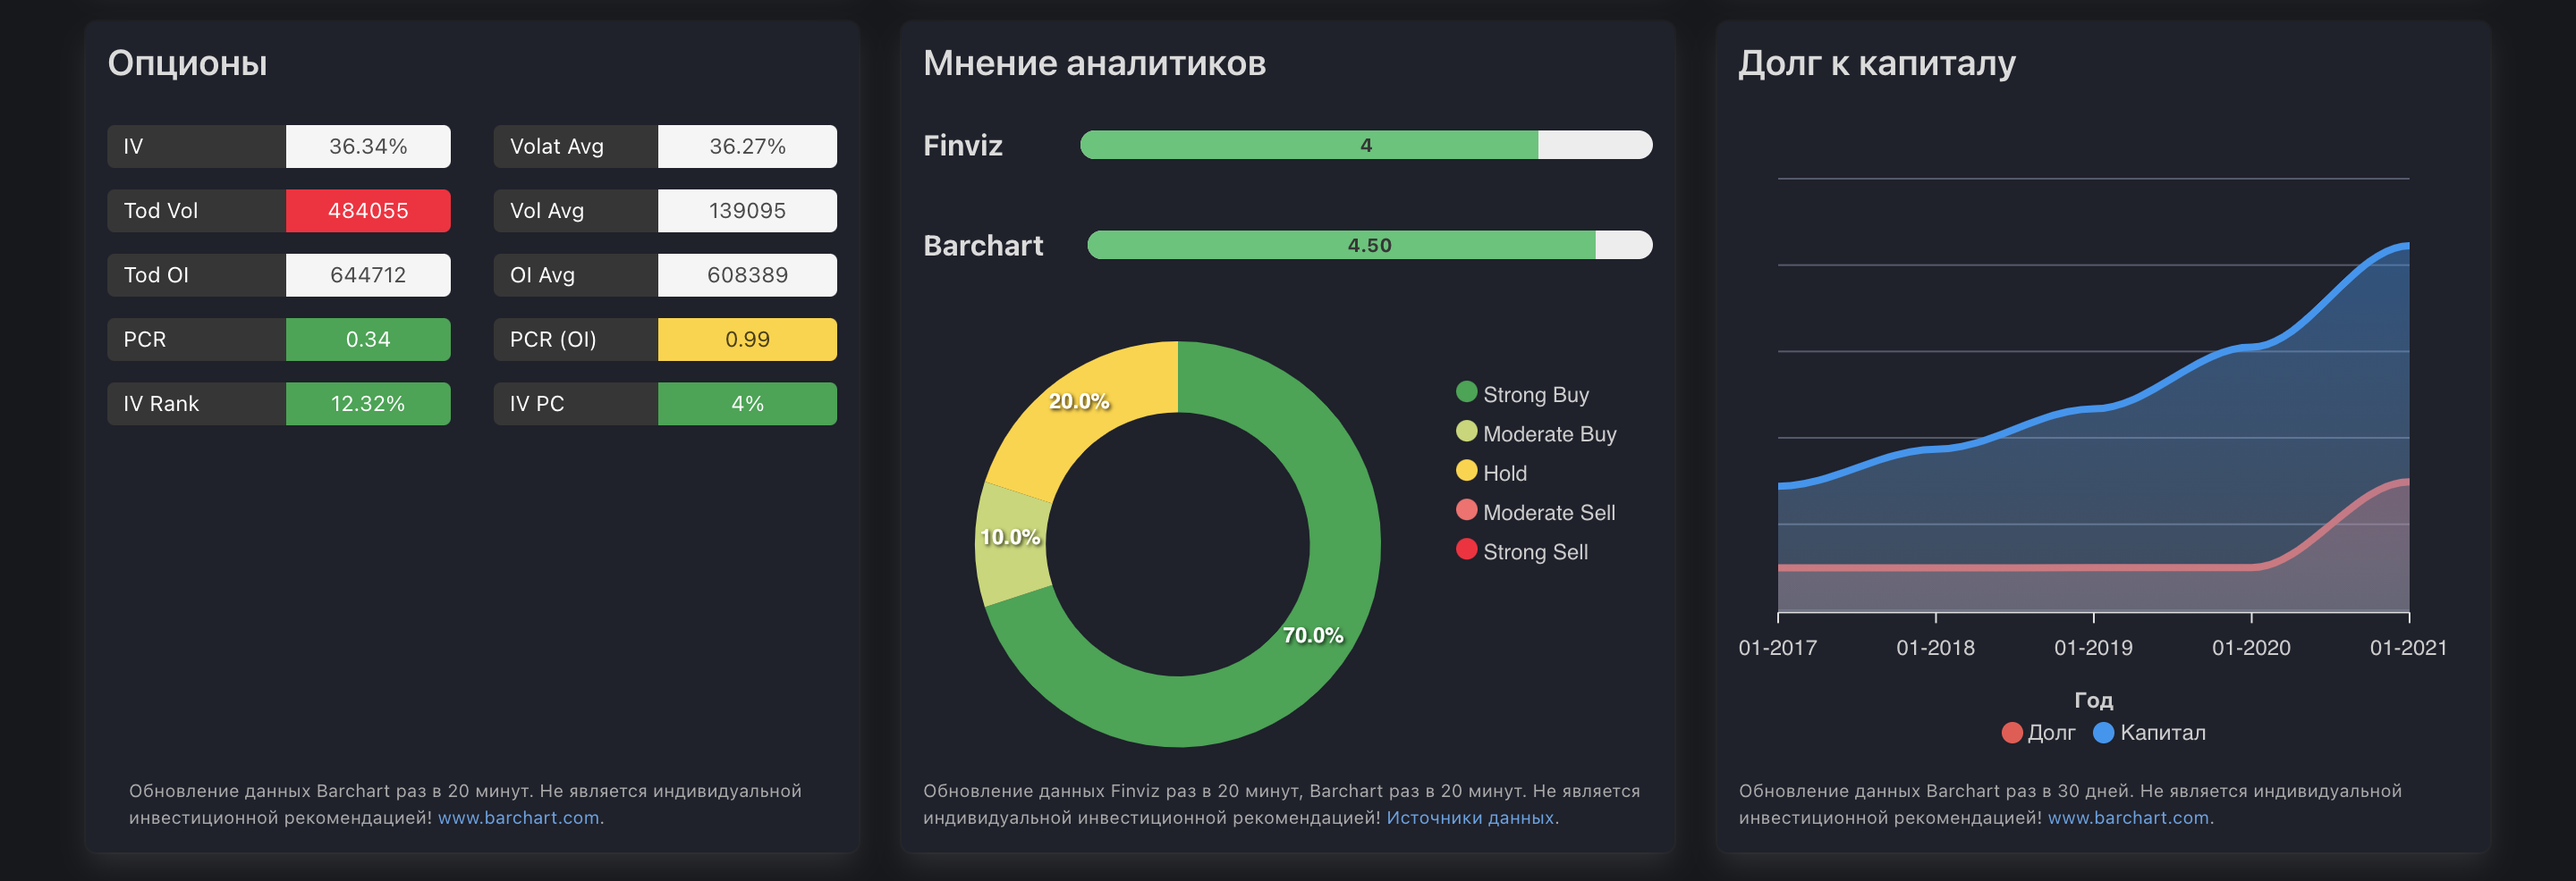
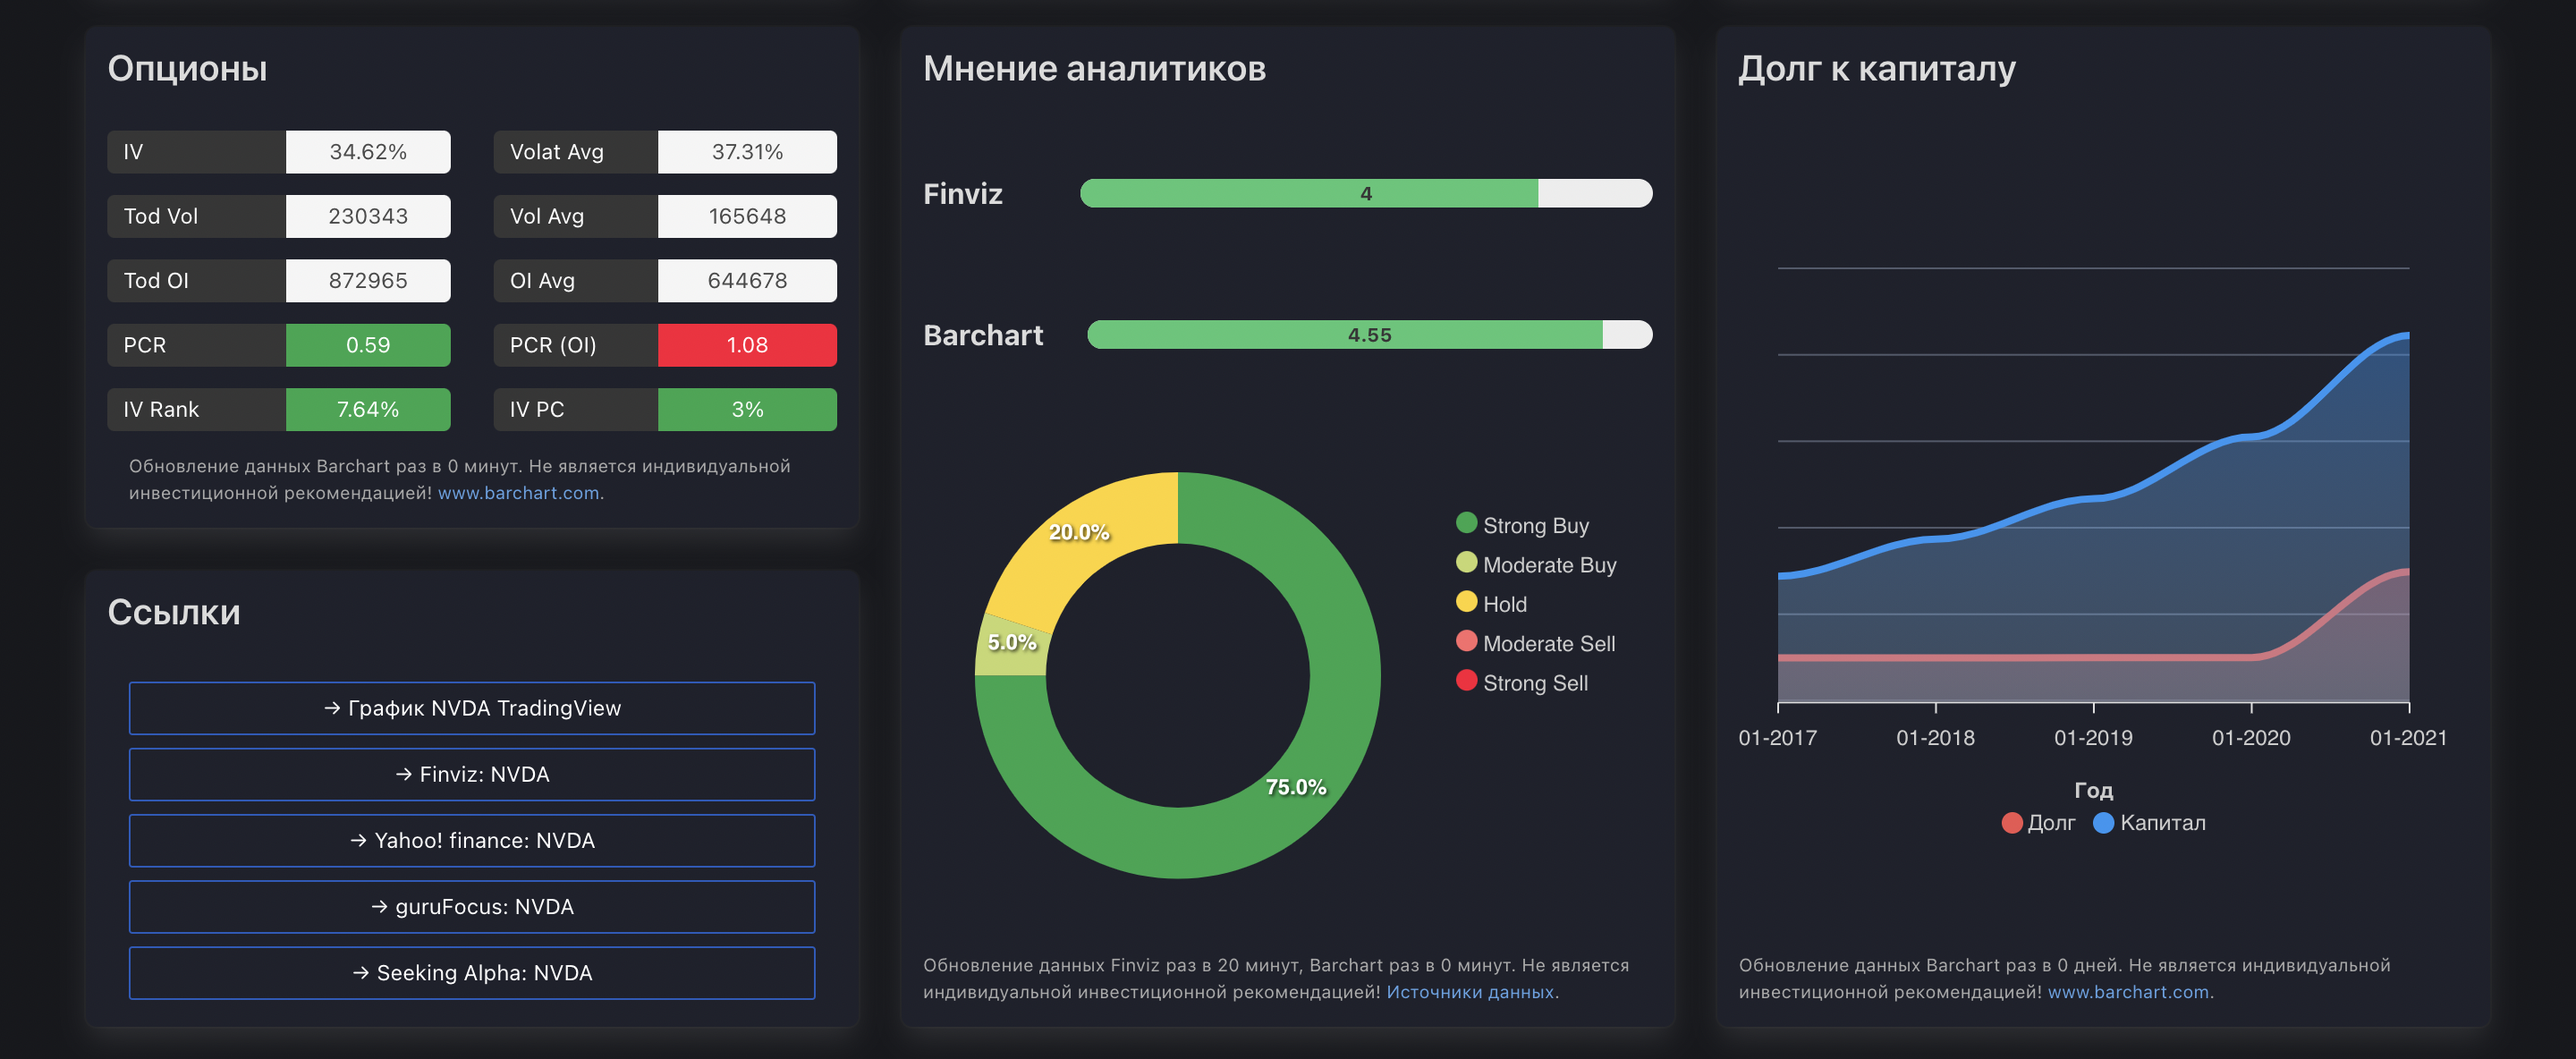
Апдейт версии и описания

diff --git a/README.md b/README.md
@@ -21,7 +21,7 @@
 
 ![Второй экран](doc/img/02.png)
 
-Далее располагаются данные по опционной торговле, консенсус аналитиков и график отношения долга к капиталу компании.
+Далее располагаются данные по опционной торговле, ссылки на сторонние сервисы, консенсус аналитиков и график отношения долга к капиталу компании.
 
 Если вы не знаете, что означает каждый показатель - просто **кликните на него** и всплывёт подсказка!
 
